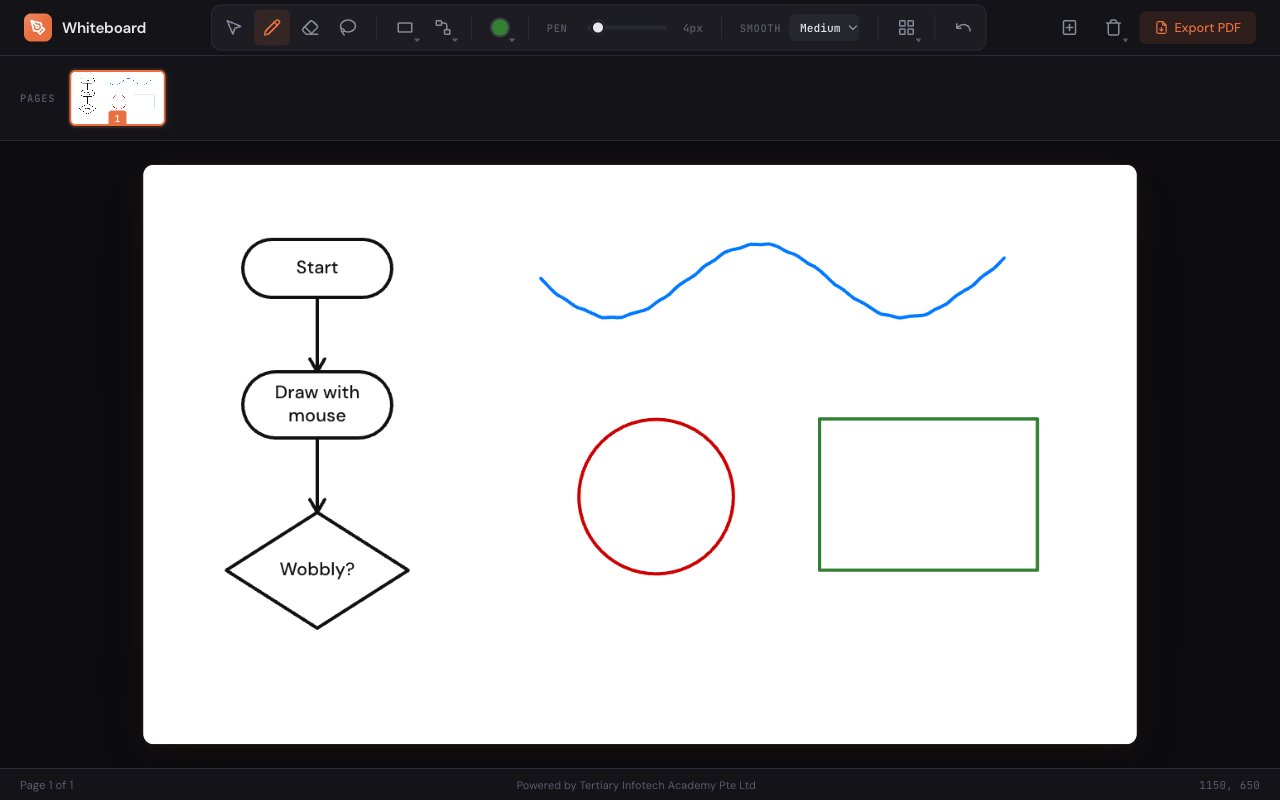
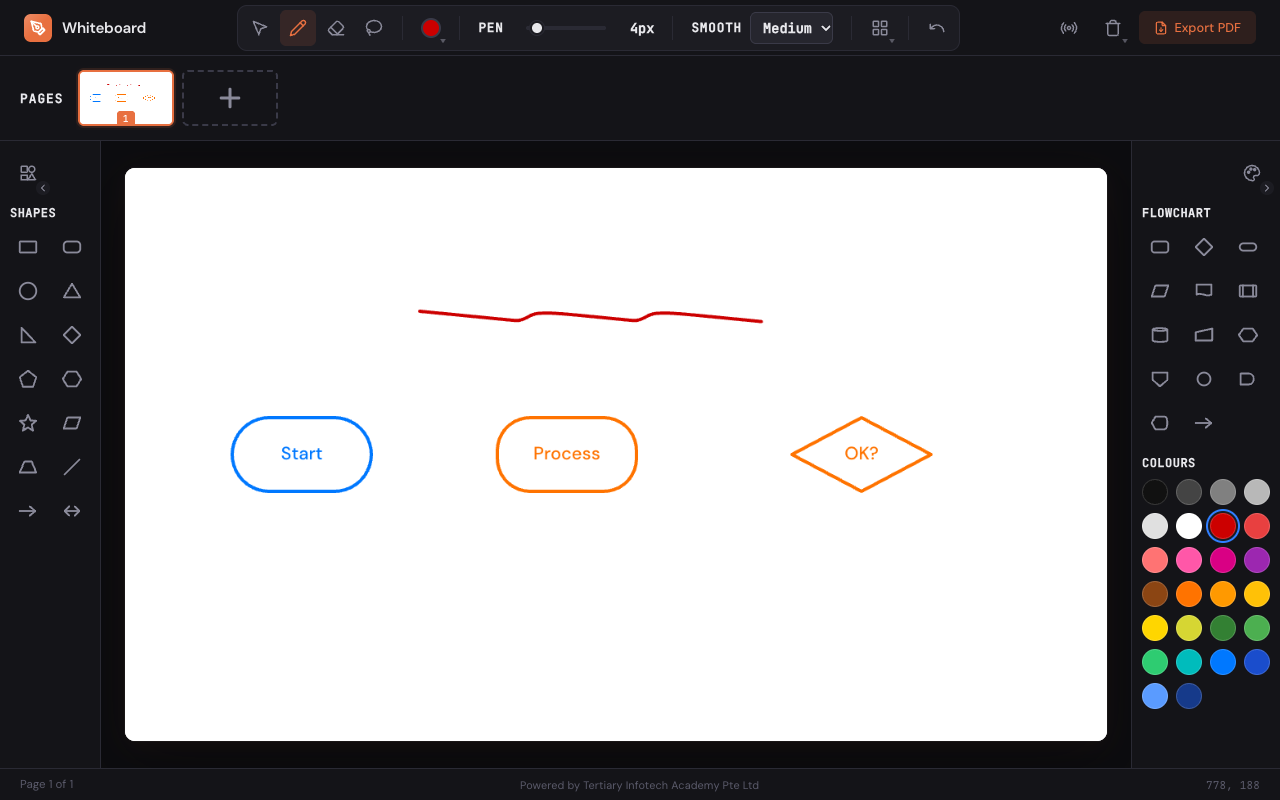
feat: collapsible side rails: shapes left, flowchart and colours right
Both rails start collapsed to a toggle button and resize the board when
opened or closed. The right rail holds the flowchart elements (tap or
drag onto the board) and the 26 palette colours. On a phone the rails
are rows above and below the board. README screenshot refreshed.

diff --git a/whiteboard.js b/whiteboard.js
@@ -1257,6 +1257,11 @@ function setTool(tool) {
   // NB: coerce to a real boolean — classList.toggle(class, undefined) *flips*
   // the class instead of removing it, which would leave triggers stuck "on".
   btnShapes.classList.toggle('active', !!def && def.menu === 'shapes');
+  // A collapsed rail's toggle lights up while one of its tools is in use.
+  const shapeToggle = document.getElementById('railToggle');
+  if (shapeToggle) shapeToggle.classList.toggle('active', !!def && def.menu === 'shapes');
+  const flowToggle = document.getElementById('colorRailToggle');
+  if (flowToggle) flowToggle.classList.toggle('active', !!def && def.menu === 'process');
   btnProcess.classList.toggle('active', !!def && def.menu === 'process');
   document.querySelectorAll('.palette-item').forEach(el => {
     el.classList.toggle('active', el.dataset.tool === tool);
@@ -1334,13 +1339,15 @@ dropdowns.forEach(dd => {
   });
 });
 
-// ─── Shape rail ───
-// Every shape and flowchart element, laid out down the left edge (along the
-// top on a phone). The items are copies of the dropdown palette buttons, so a
-// tap picks the tool exactly as the dropdown did; dragging one onto the board
-// drops a ready-made shape there.
+// ─── Side rails ───
+// Shapes down the left edge, flowchart elements (and colours, added below)
+// down the right; on a phone they are rows above and below the board. The
+// items are copies of the dropdown palette buttons, so a tap picks the tool
+// exactly as the dropdown did; dragging one onto the board drops a ready-made
+// shape there.
 const shapeRail = document.getElementById('shapeRail');
-[['shapePanel', 'Shapes'], ['processPanel', 'Flowchart']].forEach(([panelId, title]) => {
+const colorRail = document.getElementById('colorRail');
+[['shapePanel', 'Shapes', shapeRail], ['processPanel', 'Flowchart', colorRail]].forEach(([panelId, title, rail]) => {
   const group = document.createElement('div');
   group.className = 'rail-group';
   const label = document.createElement('div');
@@ -1354,8 +1361,25 @@ const shapeRail = document.getElementById('shapeRail');
     grid.appendChild(copy);
   });
   group.append(label, grid);
-  shapeRail.appendChild(group);
+  rail.appendChild(group);
 });
+
+// Collapse / expand a side rail (shapes on the left; flowchart and colours on
+// the right).
+// Both start collapsed on every load; the board is resized to the space the
+// rails leave.
+function wireRailToggle(rail, toggle, what) {
+  toggle.addEventListener('click', () => {
+    const collapsed = rail.classList.toggle('collapsed');
+    toggle.setAttribute('aria-expanded', String(!collapsed));
+    toggle.title = (collapsed ? 'Show ' : 'Hide ') + what;
+    if (editing) commitTextEditor();
+    resizeCanvas();
+    updateSelBar();
+  });
+}
+wireRailToggle(shapeRail, document.getElementById('railToggle'), 'shapes');
+
 
 // Drop a default-sized shape centred on a board position.
 const ROUND_TYPES = ['circle', 'triangle', 'righttriangle', 'diamond', 'pentagon', 'hexagon', 'star'];
@@ -1403,7 +1427,7 @@ function placeShape(tool, pos) {
 // a move across it (or out of it) picks the shape up.
 let railDrag = null;
 let railSuppressClick = false;
-function railIsRow() { return getComputedStyle(shapeRail).flexDirection === 'row'; }
+function railIsRow(rail) { return getComputedStyle(rail).flexDirection === 'row'; }
 function railOverCanvas(e) {
   const r = canvas.getBoundingClientRect();
   return e.clientX >= r.left && e.clientX <= r.right && e.clientY >= r.top && e.clientY <= r.bottom;
@@ -1424,54 +1448,56 @@ function railEnd() {
   canvas.classList.remove('drop-target');
   railDrag = null;
 }
-shapeRail.addEventListener('pointerdown', (e) => {
-  const item = e.target.closest('.palette-item');
-  if (!item || railDrag || (e.pointerType === 'mouse' && e.button !== 0)) return;
-  railSuppressClick = false;
-  railDrag = { item, tool: item.dataset.tool, id: e.pointerId, x0: e.clientX, y0: e.clientY, lx: e.clientX, ly: e.clientY, mode: null, ghost: null };
-  try { item.setPointerCapture(e.pointerId); } catch { /* not capturable */ }
-});
-shapeRail.addEventListener('pointermove', (e) => {
-  const d = railDrag;
-  if (!d || e.pointerId !== d.id) return;
-  if (!d.mode) {
-    const dx = Math.abs(e.clientX - d.x0), dy = Math.abs(e.clientY - d.y0);
-    if (Math.hypot(dx, dy) < 8) return;
-    const row = railIsRow();
-    const canScroll = row ? shapeRail.scrollWidth > shapeRail.clientWidth : shapeRail.scrollHeight > shapeRail.clientHeight;
-    const along = row ? dx : dy, across = row ? dy : dx;
-    if (e.pointerType !== 'mouse' && canScroll && along > across) d.mode = 'scroll';
-    else railPickUp(d);
-  }
-  if (d.mode === 'scroll') {
-    if (railIsRow()) shapeRail.scrollLeft -= e.clientX - d.lx;
-    else shapeRail.scrollTop -= e.clientY - d.ly;
-    const r = shapeRail.getBoundingClientRect();
-    if (e.clientX < r.left - 12 || e.clientX > r.right + 12 || e.clientY < r.top - 12 || e.clientY > r.bottom + 12) railPickUp(d);
-  }
-  if (d.mode === 'drag') {
+[shapeRail, colorRail].forEach(rail => {
+  rail.addEventListener('pointerdown', (e) => {
+    const item = e.target.closest('.palette-item');
+    if (!item || railDrag || (e.pointerType === 'mouse' && e.button !== 0)) return;
+    railSuppressClick = false;
+    railDrag = { rail, item, tool: item.dataset.tool, id: e.pointerId, x0: e.clientX, y0: e.clientY, lx: e.clientX, ly: e.clientY, mode: null, ghost: null };
+    try { item.setPointerCapture(e.pointerId); } catch { /* not capturable */ }
+  });
+  rail.addEventListener('pointermove', (e) => {
+    const d = railDrag;
+    if (!d || d.rail !== rail || e.pointerId !== d.id) return;
+    if (!d.mode) {
+      const dx = Math.abs(e.clientX - d.x0), dy = Math.abs(e.clientY - d.y0);
+      if (Math.hypot(dx, dy) < 8) return;
+      const row = railIsRow(rail);
+      const canScroll = row ? rail.scrollWidth > rail.clientWidth : rail.scrollHeight > rail.clientHeight;
+      const along = row ? dx : dy, across = row ? dy : dx;
+      if (e.pointerType !== 'mouse' && canScroll && along > across) d.mode = 'scroll';
+      else railPickUp(d);
+    }
+    if (d.mode === 'scroll') {
+      if (railIsRow(rail)) rail.scrollLeft -= e.clientX - d.lx;
+      else rail.scrollTop -= e.clientY - d.ly;
+      const r = rail.getBoundingClientRect();
+      if (e.clientX < r.left - 12 || e.clientX > r.right + 12 || e.clientY < r.top - 12 || e.clientY > r.bottom + 12) railPickUp(d);
+    }
+    if (d.mode === 'drag') {
+      e.preventDefault();
+      d.ghost.style.transform = `translate(${e.clientX}px, ${e.clientY}px)`;
+      canvas.classList.toggle('drop-target', railOverCanvas(e));
+    }
+    d.lx = e.clientX; d.ly = e.clientY;
+  });
+  rail.addEventListener('pointerup', (e) => {
+    const d = railDrag;
+    if (!d || d.rail !== rail || e.pointerId !== d.id) return;
+    const mode = d.mode, tool = d.tool;
+    const drop = mode === 'drag' && railOverCanvas(e) ? getPosition(e) : null;
+    railEnd();
+    if (mode) railSuppressClick = true;   // it was a drag or a scroll, not a tap
+    if (drop) placeShape(tool, drop);
+  });
+  rail.addEventListener('pointercancel', railEnd);
+  rail.addEventListener('click', (e) => {
+    if (!railSuppressClick) return;
+    railSuppressClick = false;
+    e.stopPropagation();
     e.preventDefault();
-    d.ghost.style.transform = `translate(${e.clientX}px, ${e.clientY}px)`;
-    canvas.classList.toggle('drop-target', railOverCanvas(e));
-  }
-  d.lx = e.clientX; d.ly = e.clientY;
+  }, true);
 });
-shapeRail.addEventListener('pointerup', (e) => {
-  const d = railDrag;
-  if (!d || e.pointerId !== d.id) return;
-  const mode = d.mode, tool = d.tool;
-  const drop = mode === 'drag' && railOverCanvas(e) ? getPosition(e) : null;
-  railEnd();
-  if (mode) railSuppressClick = true;   // it was a drag or a scroll, not a tap
-  if (drop) placeShape(tool, drop);
-});
-shapeRail.addEventListener('pointercancel', railEnd);
-shapeRail.addEventListener('click', (e) => {
-  if (!railSuppressClick) return;
-  railSuppressClick = false;
-  e.stopPropagation();
-  e.preventDefault();
-}, true);
 
 // Pick a shape/process tool from a palette and remember it on the trigger icon.
 document.querySelectorAll('.palette-item').forEach(item => {
@@ -1634,6 +1660,34 @@ function buildPalette() {
     swatchGrid.appendChild(sw);
   });
 }
+
+// ─── Colour rail ───
+// The palette's colours in the right rail, under the flowchart elements.
+// A tap sets the pen colour and recolours the selection, like the palette.
+(() => {
+  const group = document.createElement('div');
+  group.className = 'rail-group';
+  const label = document.createElement('div');
+  label.className = 'palette-title';
+  label.textContent = 'Colours';
+  const grid = document.createElement('div');
+  grid.className = 'rail-grid color-grid';
+  PALETTE.forEach(hex => {
+    const sw = document.createElement('button');
+    sw.type = 'button';
+    sw.className = 'swatch';
+    sw.dataset.color = hex;
+    sw.style.background = hex;
+    sw.title = hex;
+    sw.addEventListener('click', () => applyColor(hex));
+    grid.appendChild(sw);
+  });
+  group.append(label, grid);
+  colorRail.appendChild(group);
+  // Mark the current colour now that these swatches exist.
+  setColor(colorPicker.value);
+})();
+wireRailToggle(colorRail, document.getElementById('colorRailToggle'), 'flowchart and colours');
 
 // Apply a colour to the pen and to every selected shape.
 function applyColor(hex) {

diff --git a/styles.css b/styles.css
@@ -1474,8 +1474,65 @@ canvas.drop-target {
     0 20px 60px rgba(0, 0, 0, 0.5);
 }
 
+/* Collapse / expand toggle at the head of the rail. Collapsed, the rail is
+   just this button (a shapes icon + an arrow pointing the way it opens). */
+.rail-toggle {
+  position: relative;
+  flex-shrink: 0;
+  width: 40px;
+  height: 40px;
+  align-self: flex-start;
+}
+
+.rail-toggle .rail-toggle-chevron {
+  position: absolute;
+  right: -2px;
+  bottom: -2px;
+  width: 14px;
+  height: 14px;
+  padding: 1px;
+  border-radius: 50%;
+  background: var(--bg-raised);
+  transition: transform 0.2s ease;
+}
+
+.shape-rail:not(.collapsed) .rail-toggle-chevron { transform: rotate(180deg); }
+
+.shape-rail.collapsed .rail-group { display: none; }
+
+/* Colour rail: the shape rail's twin on the right edge of the board */
+.color-rail {
+  border-right: none;
+  border-left: 1px solid var(--border-subtle);
+}
+
+.color-rail .rail-toggle { align-self: flex-end; }
+
+/* It opens to the left, so its arrow points the other way */
+.color-rail .rail-toggle-chevron { transform: rotate(180deg); }
+.color-rail:not(.collapsed) .rail-toggle-chevron { transform: none; }
+
+/* Three flowchart columns and four colour columns keep it short enough to
+   show everything without scrolling on a laptop or iPad. */
+.color-rail .rail-grid { grid-template-columns: repeat(3, 40px); }
+
+.color-rail .color-grid {
+  grid-template-columns: repeat(4, 26px);
+  gap: 8px;
+  padding: 2px;
+}
+
+.color-rail .swatch {
+  width: 26px;
+  height: 26px;
+}
+
 @media (pointer: coarse) {
+  .rail-toggle { width: 44px; height: 44px; }
   .rail-grid { grid-template-columns: repeat(2, 44px); }
+  .color-rail .rail-grid { grid-template-columns: repeat(3, 44px); }
+  .color-rail .color-grid { grid-template-columns: repeat(4, 30px); gap: 7px; }
+  .color-rail .swatch { width: 30px; height: 30px; min-width: 0; min-height: 0; }
   .shape-rail .palette-item { width: 44px; height: 44px; }
 }
 
@@ -1508,4 +1565,22 @@ canvas.drop-target {
   }
 
   .shape-rail .palette-item { flex-shrink: 0; }
+
+  .rail-toggle { align-self: center; }
+
+  /* In the row the rail opens downward from the toggle */
+  .rail-toggle .rail-toggle-chevron { transform: rotate(90deg); }
+  .shape-rail:not(.collapsed) .rail-toggle-chevron { transform: rotate(-90deg); }
+
+  /* The colour rail is a row below the board and opens upward */
+  .color-rail {
+    border-left: none;
+    border-bottom: none;
+    border-top: 1px solid var(--border-subtle);
+  }
+  .color-rail .rail-toggle { align-self: center; }
+  .color-rail .rail-toggle-chevron { transform: rotate(-90deg); }
+  .color-rail:not(.collapsed) .rail-toggle-chevron { transform: rotate(90deg); }
+  .color-rail .color-grid { gap: 8px; align-items: center; }
+  .color-rail .swatch { flex-shrink: 0; }
 }

diff --git a/index.html b/index.html
@@ -342,8 +342,21 @@
   </div>
 
   <div class="workspace">
-  <!-- Shape rail: tap a shape to pick it, or drag it onto the board. Filled by JS. -->
-  <aside class="shape-rail" id="shapeRail" aria-label="Shapes"></aside>
+  <!-- Shape rail: tap a shape to pick it, or drag it onto the board. Filled by JS.
+       Starts collapsed to its toggle button; the button expands and collapses it. -->
+  <aside class="shape-rail collapsed" id="shapeRail" aria-label="Shapes">
+    <button class="tool-btn rail-toggle" id="railToggle" type="button" aria-expanded="false" aria-controls="shapeRail" title="Show shapes">
+      <svg class="rail-toggle-shapes" viewBox="0 0 24 24" fill="none" stroke="currentColor" stroke-width="2" stroke-linecap="round" stroke-linejoin="round">
+        <rect x="3" y="3" width="8" height="8" rx="1"/>
+        <circle cx="17" cy="7" r="4"/>
+        <path d="M12 21l5-8 5 8z"/>
+        <path d="M3 15h8v6H3z"/>
+      </svg>
+      <svg class="rail-toggle-chevron" viewBox="0 0 24 24" fill="none" stroke="currentColor" stroke-width="2.5" stroke-linecap="round" stroke-linejoin="round">
+        <path d="m9 6 6 6-6 6"/>
+      </svg>
+    </button>
+  </aside>
   <div class="canvas-container">
     <canvas id="whiteboard" width="1200" height="700"></canvas>
     <textarea id="shapeTextEditor" class="shape-text-editor" spellcheck="false"
@@ -352,6 +365,21 @@
     <!-- Actions for the current selection (colour, size, delete). Filled by JS. -->
     <div id="selBar" class="sel-bar" role="toolbar" aria-label="Selection"></div>
   </div>
+  <!-- Right rail: flowchart elements (tap or drag onto the board) and colours for
+       the pen and the selection. Filled by JS. Starts collapsed to its toggle button. -->
+  <aside class="shape-rail color-rail collapsed" id="colorRail" aria-label="Flowchart and colours">
+    <button class="tool-btn rail-toggle" id="colorRailToggle" type="button" aria-expanded="false" aria-controls="colorRail" title="Show flowchart and colours">
+      <svg class="rail-toggle-shapes" viewBox="0 0 24 24" fill="none" stroke="currentColor" stroke-width="2" stroke-linecap="round" stroke-linejoin="round">
+        <path d="M12 22a10 10 0 1 1 10-10c0 2.2-1.8 3.5-4 3.5h-2a2 2 0 0 0-1.5 3.3A2 2 0 0 1 12 22Z"/>
+        <circle cx="7.5" cy="11" r="1.3" fill="currentColor"/>
+        <circle cx="10.5" cy="6.8" r="1.3" fill="currentColor"/>
+        <circle cx="15.5" cy="7.5" r="1.3" fill="currentColor"/>
+      </svg>
+      <svg class="rail-toggle-chevron" viewBox="0 0 24 24" fill="none" stroke="currentColor" stroke-width="2.5" stroke-linecap="round" stroke-linejoin="round">
+        <path d="m9 6 6 6-6 6"/>
+      </svg>
+    </button>
+  </aside>
   </div>
 
   <div class="status-bar">

diff --git a/README.md b/README.md
@@ -38,7 +38,7 @@ Whiteboard is a lightweight, zero-dependency drawing application designed for cl
 | **Lasso select** | Circle several elements (`L`) to select them; a frame appears round the group. Drag inside it to move, drag a corner to scale everything together, handwriting included |
 | **Selection action bar** | A floating bar beside the selection for touch and stylus (iPad): six quick colours, Smaller, Bigger and Delete, so no keyboard is needed |
 | **Eraser with size ring** | A circle cursor shows the exact eraser size as you erase (`E`) |
-| **Shape rail** | Every shape and flowchart element sits in a rail on the left (a scrolling row on a phone). Tap one to pick the tool, or drag it onto the board to drop a ready-made shape |
+| **Side rails** | Shapes sit in a rail on the left; flowchart elements and 26 colours sit in a rail on the right (scrolling rows above and below the board on a phone). Each rail starts collapsed to one button that opens and closes it. Tap a shape to pick the tool, or drag it onto the board to drop a ready-made shape; tap a colour for the pen and the selection |
 | **Live session** | Start a session on the classroom PC, scan the QR code with an iPad (or enter the 6-character code) and both devices share one board in real time. Draw on the iPad and it appears on the projector |
 | **Apple Pencil / stylus** | Pressure-sensitive line width, palm rejection (fingers are ignored once a stylus is used; the hand button turns finger drawing back on) and a light stabiliser tuned for a stylus. Double-tap the board with a finger to switch to the next pen colour; triple-tap to go back to the black pen |
 | **Paper styles** | Whiteboard, paper or blackboard surface, each with a blank, lined, dotted or grid pattern; ink is recoloured when switching between light and dark |
